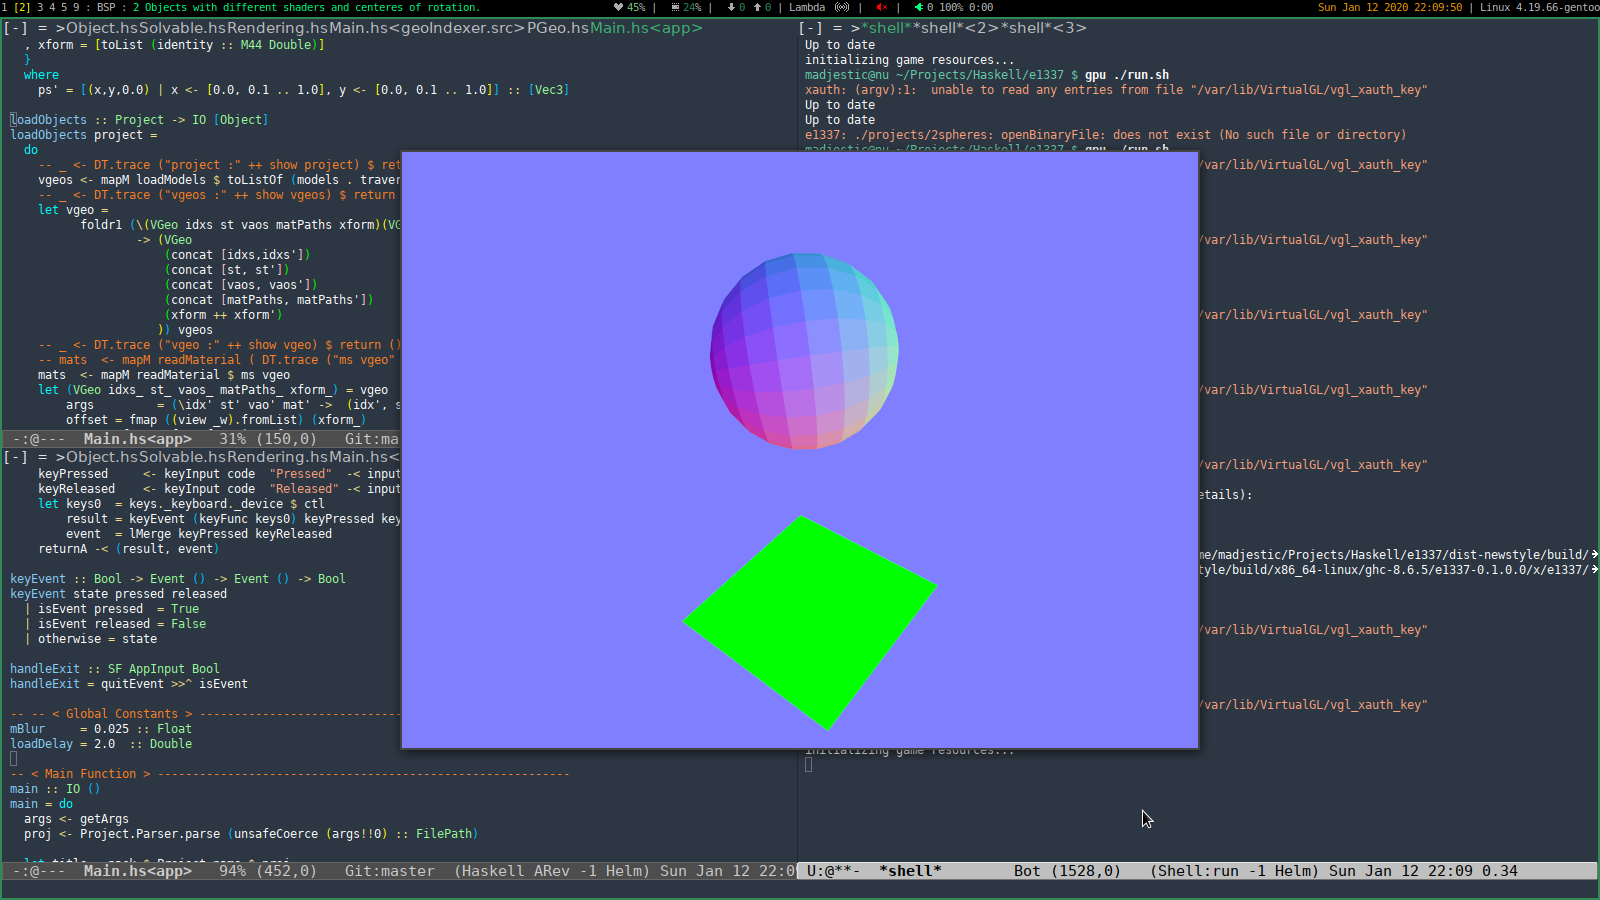
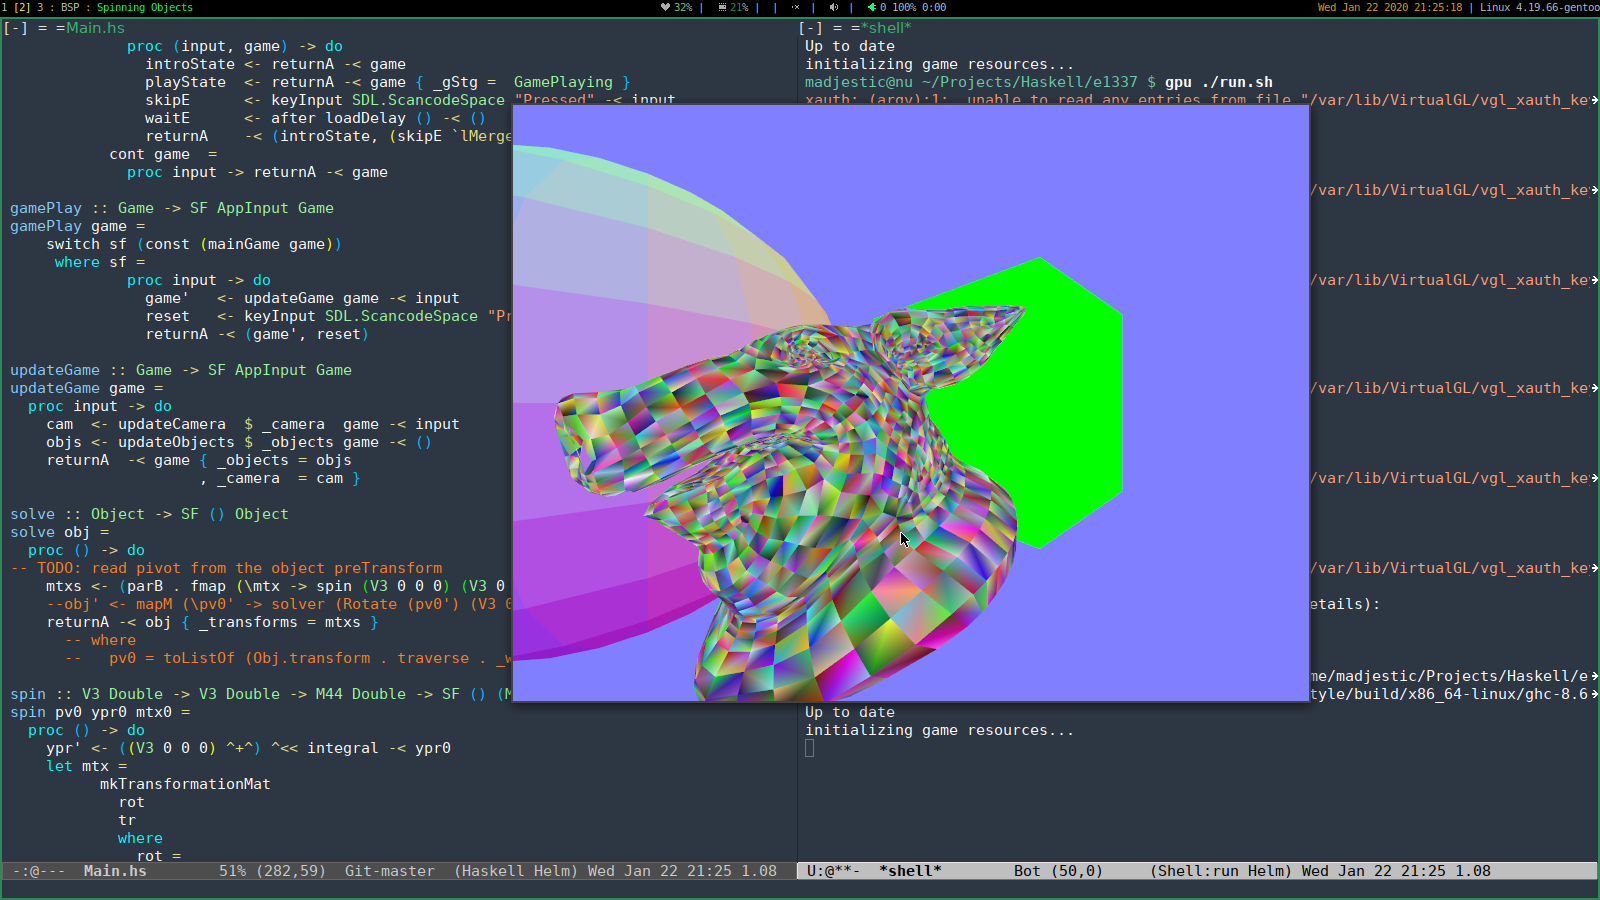
multiple spinning objects, fixed normal shader

diff --git a/README.md b/README.md
@@ -10,11 +10,13 @@ It supports loading and rendering simple projects files, describing a model, a m
 * Has a camera that supports user-input.
 * Renders a scene of objects.
 
-[a youtube demo](https://youtu.be/rnkZqXXqWYA)
+[a youtube demo](https://www.youtube.com/watch?v=Oqiyv4zhxWE)
 
 ![](https://github.com/madjestic/e1337/blob/master/output.png)
 
 Recent Changes:
+
+[multiple spinning objects](https://www.youtube.com/watch?v=Oqiyv4zhxWE)
 
 [2 objects with different materials and centers of rotation](https://youtu.be/rnkZqXXqWYA)
 
